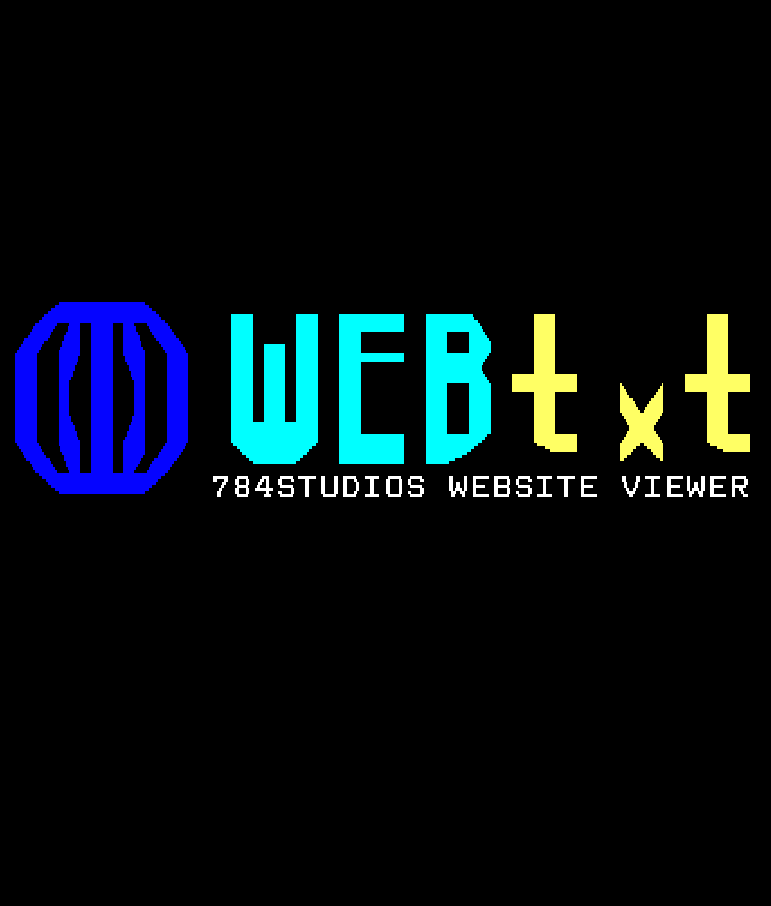
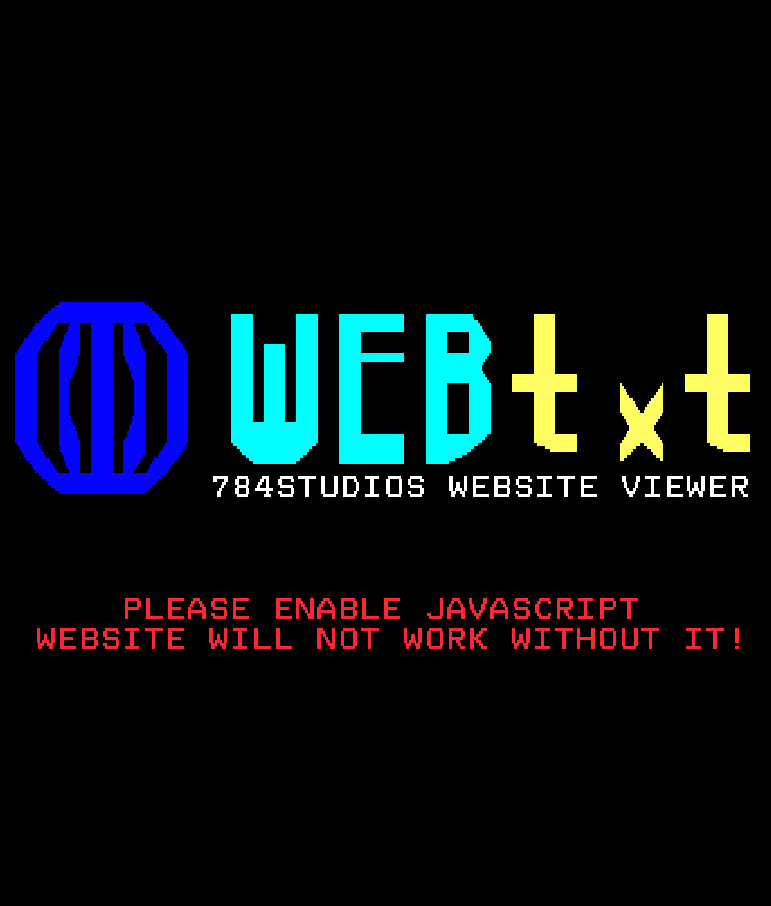
????? i dunno

Changed region(s): [[0.0311, 0.649, 0.965, 0.7108]]

diff --git a/en/index.html b/en/index.html
@@ -90,7 +90,7 @@ Teletext viewer by Jamie Nemeth https://jamienemeth.co.uk
         </nav>
         <main id="viewer">
           <div id="teltxt" style="text-align: center;">
-            <img src="/assets/images/webtxt.png" alt="WEBtxt. 784 Studios Website Viewer" class="teltxt"><br>
+            <img src="/assets/images/webtxt.png" alt="Please enable Javascript, this website will not work without it. WEBtxt. 784 Studios Website Viewer." class="teltxt" style="max-width: 500px;"><br>
             </div>
         </main>
       </div>
